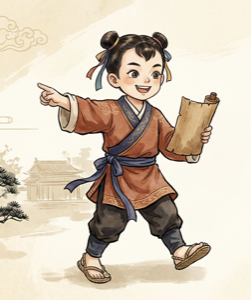
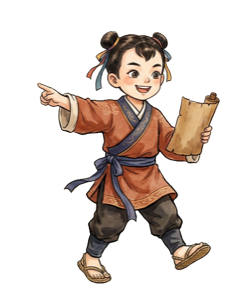
civ-lab: walker 人物抠图 + 立体阴影 + 移除虚线
- 用 macOS Vision Framework (VNGenerateForegroundInstanceMaskRequest) 抠图
- 透明背景 PNG, 文件从 ~150KB 降到 70KB
- 多层 drop-shadow 做出 3D 浮起效果
- 脚下椭圆地面阴影同步 walkerBob 动画缩放
- 时间轴上数字之间的红色虚线全部移除（看起来太乱）

diff --git a/civ-lab/styles.css b/civ-lab/styles.css
@@ -5249,27 +5249,50 @@ html { scroll-behavior: smooth; }
   border-radius: 50%;
 }
 
-/* 用户的角色头像 (会"走"到当前学习的 hotspot) — 古风手绘男孩/女孩 */
+/* 用户的角色头像 (会"走"到当前学习的 hotspot) — 抠图古风手绘男孩/女孩 */
 .user-avatar-walker {
   position: absolute;
-  width: 70px; height: 90px;
+  width: 78px; height: 100px;
   transform: translate(-50%, -100%);
   z-index: 4;
   cursor: pointer;
   transition: left 1.5s cubic-bezier(.34,1.2,.5,1), top 1.5s cubic-bezier(.34,1.2,.5,1);
   display: flex; align-items: flex-end; justify-content: center;
-  filter: drop-shadow(0 6px 8px rgba(60,30,5,.4));
+  /* 3D 立体效果：地面阴影 */
+}
+/* 脚下的椭圆阴影（地面投影）— 让人物显得有立体感 */
+.user-avatar-walker::after {
+  content: '';
+  position: absolute;
+  bottom: -4px; left: 50%;
+  width: 50px; height: 10px;
+  background: radial-gradient(ellipse at center,
+    rgba(60,30,5,.45) 0%,
+    rgba(60,30,5,.25) 50%,
+    rgba(60,30,5,0) 100%);
+  transform: translateX(-50%);
+  z-index: -1;
+  animation: shadowBob 1.8s ease-in-out infinite;
+}
+@keyframes shadowBob {
+  0%, 100% { transform: translateX(-50%) scale(1); opacity: .8; }
+  50%      { transform: translateX(-50%) scale(.7); opacity: .5; }
 }
 .walker-emoji {
   /* 用背景图代替 emoji */
   display: block;
-  width: 70px; height: 90px;
+  width: 78px; height: 100px;
   background-image: url('images/avatar-boy.png');
   background-size: contain;
   background-repeat: no-repeat;
   background-position: center bottom;
   animation: walkerBob 1.8s ease-in-out infinite;
   font-size: 0; /* 隐藏旧 emoji 文字 */
+  /* 多层阴影做出 3D 浮起来的效果 */
+  filter:
+    drop-shadow(0 1px 0 rgba(0,0,0,.15))
+    drop-shadow(0 3px 4px rgba(60,30,5,.35))
+    drop-shadow(0 8px 12px rgba(60,30,5,.25));
 }
 .user-avatar-walker[data-gender="girl"] .walker-emoji {
   background-image: url('images/avatar-girl.png');

diff --git a/civ-lab/index.html b/civ-lab/index.html
@@ -4,7 +4,7 @@
   <meta charset="UTF-8" />
   <meta name="viewport" content="width=device-width, initial-scale=1.0" />
   <title>AI世界文明实验室</title>
-  <link rel="stylesheet" href="./styles.css?v=85" />
+  <link rel="stylesheet" href="./styles.css?v=86" />
 </head>
 <body>
 
@@ -737,9 +737,9 @@
 </div>
 
 <script src="./data.js?v=47"></script>
-<script src="./prehistoric.js?v=85"></script>
-<script src="./prehistoric_kb.js?v=85"></script>
-<script src="./knowledge_base.js?v=85"></script>
-<script src="./app.js?v=85"></script>
+<script src="./prehistoric.js?v=86"></script>
+<script src="./prehistoric_kb.js?v=86"></script>
+<script src="./knowledge_base.js?v=86"></script>
+<script src="./app.js?v=86"></script>
 </body>
 </html>

diff --git a/civ-lab/app.js b/civ-lab/app.js
@@ -1875,15 +1875,8 @@ function renderImageOverlayMode(p) {
       <span class="img-hotspot-label">${h.icon} ${h.label}</span>
     </button>`).join('');
 
-  // 按时间顺序的连接线（SVG 上）
-  const connections = hotspots.length > 1
-    ? hotspots.slice(0, -1).map((h, i) => {
-        const next = hotspots[i + 1];
-        return `<line x1="${h.pos_x}%" y1="${h.pos_y}%" x2="${next.pos_x}%" y2="${next.pos_y}%"
-          stroke="#c84820" stroke-width="2" stroke-dasharray="5,5" stroke-opacity="0.5"
-          stroke-linecap="round"/>`;
-      }).join('')
-    : '';
+  // 连接线已移除（看起来太杂乱）
+  const connections = '';
 
   const body = $('#preEraBody');
   body.innerHTML = `
